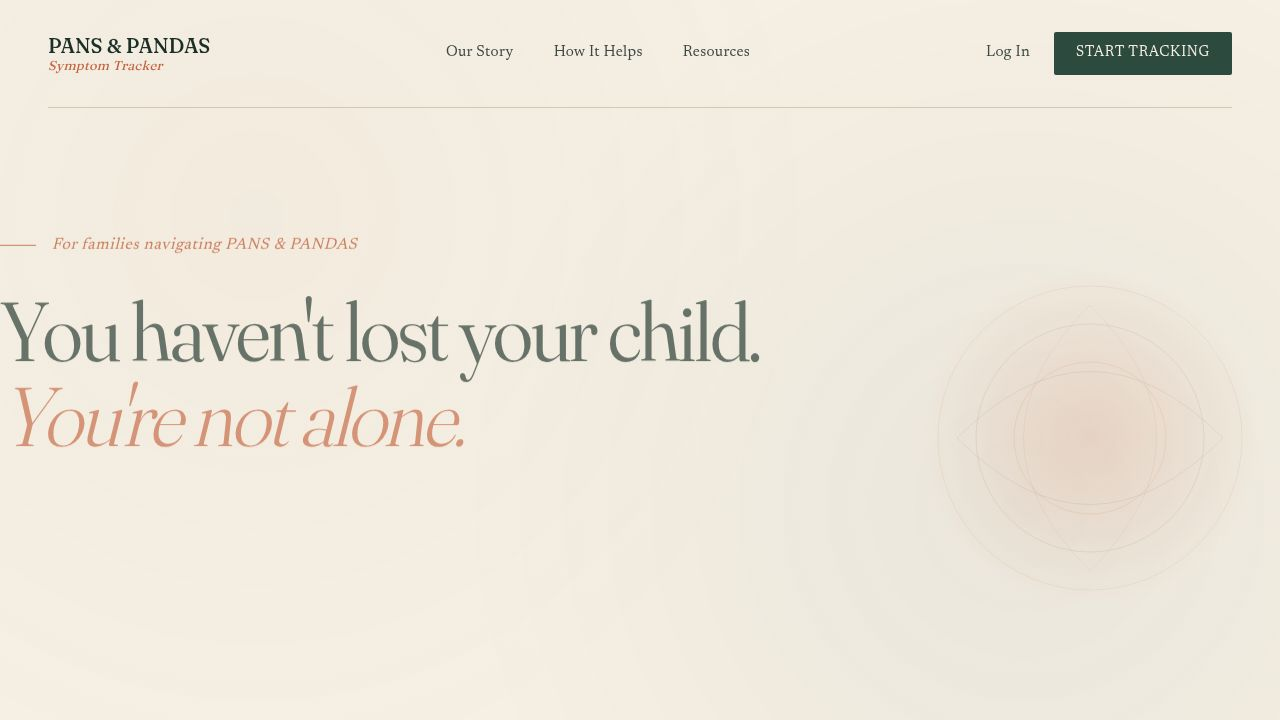
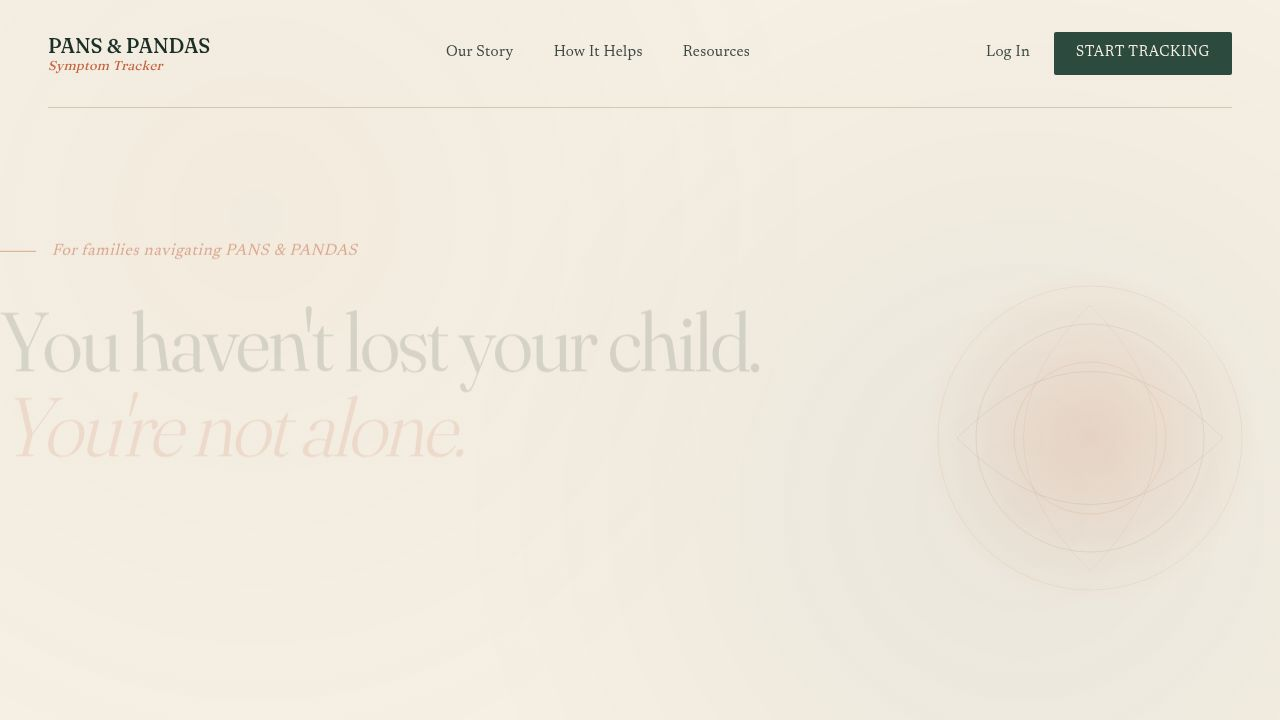
Redesign symptom tracker inputs and improve data handling
Update the Quick Entry form with a new layout, styling, and empty state. Modify data types to allow null values for symptoms, ensuring backward compatibility and robust handling of untracked data.

Replit-Commit-Author: Agent
Replit-Commit-Session-Id: 4326dd8c-fc4e-4feb-8166-dcd2c1612987
Replit-Commit-Checkpoint-Type: full_checkpoint
Replit-Commit-Event-Id: 404a6d5f-5533-40b6-bf8e-414c49f52fa2
Replit-Commit-Screenshot-Url: https://storage.googleapis.com/screenshot-production-us-central1/473c78c7-7ef7-4e2c-929f-815fa5cdc90c/4326dd8c-fc4e-4feb-8166-dcd2c1612987/h9yylQQ
Replit-Helium-Checkpoint-Created: true

Changed region(s): [[0.0, 0.3972, 0.5938, 0.55], [0.0, 0.55, 0.375, 0.6417], [0.0, 0.3361, 0.2812, 0.3667]]

diff --git a/artifacts/pans-tracker/src/pages/Dashboard.tsx b/artifacts/pans-tracker/src/pages/Dashboard.tsx
@@ -129,44 +129,142 @@ function HowItWorksModal({ onClose }: { onClose: () => void }) {
   );
 }
 
+const DOT_BG: Record<number, string> = {
+  0: 'var(--mist)',
+  1: 'var(--clay-wash)',
+  2: 'var(--clay-soft)',
+  3: '#d68866',
+  4: 'var(--clay)',
+  5: 'var(--clay-deep)',
+};
+const DOT_COLOR: Record<number, string> = {
+  0: 'var(--ink)',
+  1: 'var(--ink)',
+  2: 'var(--ink)',
+  3: '#ffffff',
+  4: '#ffffff',
+  5: '#ffffff',
+};
+
 function ScoreInput({
   label,
   value,
   onChange,
+  isLast = false,
 }: {
   label: string;
-  value: number;
-  onChange: (v: number) => void;
+  value: number | null;
+  onChange: (v: number | null) => void;
+  isLast?: boolean;
 }) {
   return (
-    <div className="flex flex-col sm:flex-row sm:items-center gap-1.5 sm:gap-2 py-3 border-b border-border/50 last:border-0">
-      <span className="text-sm font-medium text-foreground leading-tight sm:flex-1 sm:min-w-0">
+    <div
+      style={{
+        display: 'grid',
+        gridTemplateColumns: 'minmax(180px, 280px) auto',
+        alignItems: 'center',
+        gap: '40px',
+        padding: '16px 0',
+        borderBottom: isLast ? 'none' : '1px solid var(--rule-soft)',
+      }}
+    >
+      <span
+        style={{
+          fontFamily: 'Newsreader, serif',
+          fontSize: '14px',
+          fontWeight: 400,
+          color: 'var(--ink)',
+          lineHeight: '1.4',
+        }}
+      >
         {label}
       </span>
       <div
-        className="flex gap-1 sm:flex-shrink-0"
-        data-testid={`score-${label.toLowerCase().replace(/\s|\//g, "-")}`}
+        className="flex items-center"
+        style={{ gap: '12px' }}
+        data-testid={`score-${label.toLowerCase().replace(/\s|\//g, '-')}`}
       >
-        {[0, 1, 2, 3, 4, 5].map((n) => (
+        <div className="flex" style={{ gap: '8px' }}>
+          {[0, 1, 2, 3, 4, 5].map((n) => {
+            const selected = value === n;
+            return (
+              <button
+                key={n}
+                type="button"
+                onClick={() => onChange(n)}
+                data-testid={`score-btn-${label.toLowerCase().replace(/\s|\//g, '-')}-${n}`}
+                className="touch-manipulation"
+                style={{
+                  width: '36px',
+                  height: '36px',
+                  borderRadius: '50%',
+                  fontSize: '14px',
+                  fontFamily: 'Newsreader, serif',
+                  fontWeight: 400,
+                  display: 'flex',
+                  alignItems: 'center',
+                  justifyContent: 'center',
+                  cursor: 'pointer',
+                  flexShrink: 0,
+                  background: selected ? DOT_BG[n] : 'var(--bg-subtle)',
+                  color: selected ? DOT_COLOR[n] : 'var(--ink-soft)',
+                  border: selected && n === 0 ? '1px solid #8aa395' : 'none',
+                  outline: 'none',
+                  transition: 'background 0.12s ease, color 0.12s ease',
+                }}
+                onMouseEnter={(e) => {
+                  if (!selected) {
+                    e.currentTarget.style.background = 'var(--clay-wash)';
+                    e.currentTarget.style.color = 'var(--ink)';
+                  }
+                }}
+                onMouseLeave={(e) => {
+                  if (!selected) {
+                    e.currentTarget.style.background = 'var(--bg-subtle)';
+                    e.currentTarget.style.color = 'var(--ink-soft)';
+                  }
+                }}
+              >
+                {n}
+              </button>
+            );
+          })}
+        </div>
+        {value !== null && (
           <button
-            key={n}
             type="button"
-            onClick={() => onChange(n)}
-            data-testid={`score-btn-${label.toLowerCase().replace(/\s|\//g, "-")}-${n}`}
-            className={`flex-1 sm:flex-none sm:w-10 h-10 rounded-full text-sm font-semibold transition-all touch-manipulation ${
-              value === n
-                ? "shadow-sm scale-105 text-white"
-                : "bg-muted text-muted-foreground hover:bg-muted/70"
-            }`}
-            style={value === n ? { backgroundColor: "var(--terracotta)" } : undefined}
+            onClick={() => onChange(null)}
+            style={{
+              fontFamily: 'Newsreader, serif',
+              fontStyle: 'italic',
+              fontSize: '12px',
+              color: 'var(--ink-soft)',
+              background: 'none',
+              border: 'none',
+              cursor: 'pointer',
+              padding: '0',
+              lineHeight: 1,
+              flexShrink: 0,
+            }}
           >
-            {n}
+            Clear
           </button>
-        ))}
+        )}
       </div>
     </div>
   );
 }
+
+type QuickScores = {
+  ocd: number | null;
+  anxiety: number | null;
+  rage: number | null;
+  tics: number | null;
+  sleep: number | null;
+  cognition: number | null;
+};
+const EMPTY_SCORES: QuickScores = { ocd: null, anxiety: null, rage: null, tics: null, sleep: null, cognition: null };
+const CALM_SCORES: QuickScores = { ocd: 0, anxiety: 0, rage: 0, tics: 0, sleep: 0, cognition: 0 };
 
 export default function Dashboard() {
   const { logs, loading, addLog } = useSymptomLogs();
@@ -179,10 +277,11 @@ export default function Dashboard() {
 
   const existingToday = logs.find((l) => l.date === today);
 
-  const [scores, setScores] = useState({ ocd: 0, anxiety: 0, rage: 0, tics: 0, sleep: 0, cognition: 0 });
+  const [scores, setScores] = useState<QuickScores>(EMPTY_SCORES);
   const [notes, setNotes] = useState("");
   const [medicationsTaken, setMedicationsTaken] = useState<string[]>([]);
   const [saved, setSaved] = useState(false);
+  const [calmDay, setCalmDay] = useState(false);
   const [showHowItWorks, setShowHowItWorks] = useState(false);
 
   // Once Supabase data loads, pre-fill the form with today's existing entry (if any)
@@ -193,6 +292,7 @@ export default function Dashboard() {
     const entry = logs.find((l) => l.date === today);
     if (entry) {
       setScores({ ocd: entry.ocd, anxiety: entry.anxiety, rage: entry.rage, tics: entry.tics, sleep: entry.sleep, cognition: entry.cognition });
+      setCalmDay(entry.calmDay ?? false);
       setNotes(entry.notes ?? "");
       setMedicationsTaken(entry.medicationsTaken ?? []);
     }
@@ -213,6 +313,7 @@ export default function Dashboard() {
         ...scores,
         notes,
         medicationsTaken,
+        calmDay,
       };
       addLog(log);
       setSaved(true);
@@ -226,14 +327,14 @@ export default function Dashboard() {
   // Snapshot score (0–10 display scale for the badge).
   // sleep and cognition use an inverted scale (higher = better), so invert them here.
   const todayRawScore = existingToday
-    ? ((existingToday.ocd +
-        existingToday.anxiety +
-        existingToday.rage +
-        existingToday.tics +
-        (5 - existingToday.sleep) +
-        (5 - existingToday.cognition)) /
+    ? ((((existingToday.ocd ?? 0) +
+        (existingToday.anxiety ?? 0) +
+        (existingToday.rage ?? 0) +
+        (existingToday.tics ?? 0) +
+        (5 - (existingToday.sleep ?? 0)) +
+        (5 - (existingToday.cognition ?? 0))) /
         6) *
-      2
+      2)
     : null;
   const todayScore = todayRawScore !== null ? Math.round(todayRawScore * 10) / 10 : null;
   const todayScoreColor = todayScore !== null ? getScoreColor(todayScore) : null;
@@ -291,7 +392,7 @@ export default function Dashboard() {
     const total = rangeLogs.reduce(
       (sum, l) =>
         sum +
-        ((l.ocd + l.anxiety + l.rage + l.tics + (5 - l.sleep) + (5 - l.cognition)) / 6) * 2,
+        (((l.ocd ?? 0) + (l.anxiety ?? 0) + (l.rage ?? 0) + (l.tics ?? 0) + (5 - (l.sleep ?? 0)) + (5 - (l.cognition ?? 0))) / 6) * 2,
       0
     );
     return Math.round((total / rangeLogs.length) * 10) / 10;
@@ -601,7 +702,7 @@ export default function Dashboard() {
                       </div>
                       <div className="flex gap-1 flex-shrink-0">
                         {cats.map((k) => {
-                          const raw = log[k];
+                          const raw = log[k] ?? 0;
                           const score = (k === "sleep" || k === "cognition") ? 5 - raw : raw;
                           const filled = score > 0;
                           return (
@@ -699,15 +800,25 @@ export default function Dashboard() {
           </p>
         </CardHeader>
         <CardContent className="space-y-0 p-5 pt-0">
-          <div className="divide-y-0">
-            {CATEGORIES.map((cat) => (
-              <ScoreInput
-                key={cat.key}
-                label={cat.label}
-                value={scores[cat.key as keyof typeof scores]}
-                onChange={(v) => setScores((s) => ({ ...s, [cat.key]: v }))}
-              />
-            ))}
+          <div style={{ maxWidth: '720px' }}>
+            <button
+              type="button"
+              className="btn-secondary mb-4"
+              onClick={() => { setScores(CALM_SCORES); setCalmDay(true); }}
+            >
+              Calm day, nothing to report
+            </button>
+            <div>
+              {CATEGORIES.map((cat, idx) => (
+                <ScoreInput
+                  key={cat.key}
+                  label={cat.label}
+                  value={scores[cat.key as keyof QuickScores]}
+                  onChange={(v) => { setScores((s) => ({ ...s, [cat.key]: v })); setCalmDay(false); }}
+                  isLast={idx === CATEGORIES.length - 1}
+                />
+              ))}
+            </div>
           </div>
 
           <div className="space-y-2 pt-4">

diff --git a/artifacts/pans-tracker/src/pages/LogEntry.tsx b/artifacts/pans-tracker/src/pages/LogEntry.tsx
@@ -108,7 +108,7 @@ export default function LogEntry() {
     const entry = logs.find((l) => l.date === selectedDate);
     setScores(
       entry
-        ? { ocd: entry.ocd, anxiety: entry.anxiety, rage: entry.rage, tics: entry.tics, sleep: entry.sleep, cognition: entry.cognition }
+        ? { ocd: entry.ocd ?? 0, anxiety: entry.anxiety ?? 0, rage: entry.rage ?? 0, tics: entry.tics ?? 0, sleep: entry.sleep ?? 0, cognition: entry.cognition ?? 0 }
         : { ocd: 0, anxiety: 0, rage: 0, tics: 0, sleep: 0, cognition: 0 }
     );
     setNotes(entry?.notes ?? "");
@@ -364,12 +364,12 @@ export default function LogEntry() {
                         <td className="py-3 px-4 font-medium text-foreground whitespace-nowrap">
                           {format(new Date(log.date + "T12:00:00"), "MMM d, yyyy")}
                         </td>
-                        <td className="py-3 px-2 text-center"><ScoreBadge value={log.ocd} /></td>
-                        <td className="py-3 px-2 text-center"><ScoreBadge value={log.anxiety} /></td>
-                        <td className="py-3 px-2 text-center"><ScoreBadge value={log.rage} /></td>
-                        <td className="py-3 px-2 text-center"><ScoreBadge value={log.tics} /></td>
-                        <td className="py-3 px-2 text-center"><ScoreBadge value={log.sleep} inverted /></td>
-                        <td className="py-3 px-2 text-center"><ScoreBadge value={log.cognition} inverted /></td>
+                        <td className="py-3 px-2 text-center"><ScoreBadge value={log.ocd ?? 0} /></td>
+                        <td className="py-3 px-2 text-center"><ScoreBadge value={log.anxiety ?? 0} /></td>
+                        <td className="py-3 px-2 text-center"><ScoreBadge value={log.rage ?? 0} /></td>
+                        <td className="py-3 px-2 text-center"><ScoreBadge value={log.tics ?? 0} /></td>
+                        <td className="py-3 px-2 text-center"><ScoreBadge value={log.sleep ?? 0} inverted /></td>
+                        <td className="py-3 px-2 text-center"><ScoreBadge value={log.cognition ?? 0} inverted /></td>
                         <td className="py-3 px-2 text-center">
                           {takenCount > 0 ? (
                             <span className="inline-flex items-center gap-1 text-xs text-primary font-medium">

diff --git a/artifacts/pans-tracker/src/lib/types.ts b/artifacts/pans-tracker/src/lib/types.ts
@@ -1,14 +1,15 @@
 export type SymptomLog = {
   id: string;
   date: string; // YYYY-MM-DD
-  ocd: number;
-  anxiety: number;
-  rage: number;
-  tics: number;
-  sleep: number;
-  cognition: number;
+  ocd: number | null;
+  anxiety: number | null;
+  rage: number | null;
+  tics: number | null;
+  sleep: number | null;
+  cognition: number | null;
   notes?: string;
   medicationsTaken?: string[]; // array of MedLibraryItem IDs
+  calmDay?: boolean;
 };
 
 export type MedicationType = 'antibiotic' | 'ssri' | 'supplement' | 'ivig' | 'steroid' | 'other';

diff --git a/artifacts/pans-tracker/src/lib/flare.ts b/artifacts/pans-tracker/src/lib/flare.ts
@@ -4,7 +4,14 @@ import { format, subDays, parseISO } from 'date-fns';
 export function computeDailyScore(log: SymptomLog): number {
   // sleep and cognition use an inverted scale (higher = better),
   // so we invert them before summing to get a proper severity contribution.
-  return log.ocd + log.anxiety + log.rage + log.tics + (5 - log.sleep) + (5 - log.cognition);
+  // Null means "not tracked" — treat as 0 for scoring purposes.
+  const ocd = log.ocd ?? 0;
+  const anxiety = log.anxiety ?? 0;
+  const rage = log.rage ?? 0;
+  const tics = log.tics ?? 0;
+  const sleep = log.sleep ?? 0;
+  const cognition = log.cognition ?? 0;
+  return ocd + anxiety + rage + tics + (5 - sleep) + (5 - cognition);
 }
 
 export interface FlarePeriod {

diff --git a/artifacts/pans-tracker/src/pages/ExportPDF.tsx b/artifacts/pans-tracker/src/pages/ExportPDF.tsx
@@ -71,7 +71,7 @@ function fmtShort(d: string) {
 
 function dailyScore(log: SymptomLog) {
   // sleep and cognition are inverted (higher = better), so invert for severity total
-  return log.ocd + log.anxiety + log.rage + log.tics + (5 - log.sleep) + (5 - log.cognition);
+  return (log.ocd ?? 0) + (log.anxiety ?? 0) + (log.rage ?? 0) + (log.tics ?? 0) + (5 - (log.sleep ?? 0)) + (5 - (log.cognition ?? 0));
 }
 
 function sectionHeader(doc: jsPDF, title: string, y: number, margin: number): number {
@@ -445,7 +445,7 @@ export default function ExportPDF() {
   const catStats = useMemo(
     () =>
       CAT_KEYS.map((cat) => {
-        const vals = filteredLogs.map((l) => l[cat]);
+        const vals = filteredLogs.map((l) => l[cat] ?? 0);
         const nonZero = vals.filter((v) => v > 0);
         const avg =
           nonZero.length > 0

diff --git a/artifacts/pans-tracker/src/pages/WellbeingCheckin.tsx b/artifacts/pans-tracker/src/pages/WellbeingCheckin.tsx
@@ -176,7 +176,7 @@ export default function WellbeingCheckin() {
 
       const child = sLog
         ? Math.round(
-            ((sLog.ocd + sLog.anxiety + sLog.rage + sLog.tics + sLog.sleep + sLog.cognition) / 6) * 10
+            (((sLog.ocd ?? 0) + (sLog.anxiety ?? 0) + (sLog.rage ?? 0) + (sLog.tics ?? 0) + (sLog.sleep ?? 0) + (sLog.cognition ?? 0)) / 6) * 10
           ) / 10
         : null;
 
@@ -209,7 +209,7 @@ export default function WellbeingCheckin() {
       .filter((v) => v !== null) as number[];
 
     const sScores = sInMonth.map(
-      (l) => (l.ocd + l.anxiety + l.rage + l.tics + l.sleep + l.cognition) / 6
+      (l) => ((l.ocd ?? 0) + (l.anxiety ?? 0) + (l.rage ?? 0) + (l.tics ?? 0) + (l.sleep ?? 0) + (l.cognition ?? 0)) / 6
     );
 
     const avgWellbeing = wScores.length > 0 ? wScores.reduce((a, b) => a + b, 0) / wScores.length : null;

diff --git a/artifacts/pans-tracker/src/pages/SchoolHub.tsx b/artifacts/pans-tracker/src/pages/SchoolHub.tsx
@@ -336,7 +336,7 @@ export default function SchoolHub() {
     if (logs.length === 0) return [];
     const recent = [...logs].sort((a, b) => b.date.localeCompare(a.date))[0];
     const cats = (["ocd", "anxiety", "rage", "tics", "sleep", "cognition"] as const)
-      .map((k) => ({ key: k, score: recent[k] }))
+      .map((k) => ({ key: k, score: recent[k] ?? 0 }))
       .filter((x) => x.score > 0)
       .sort((a, b) => b.score - a.score)
       .slice(0, 3);